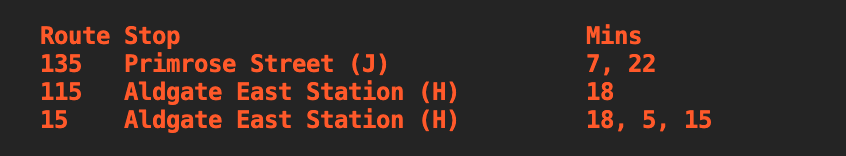
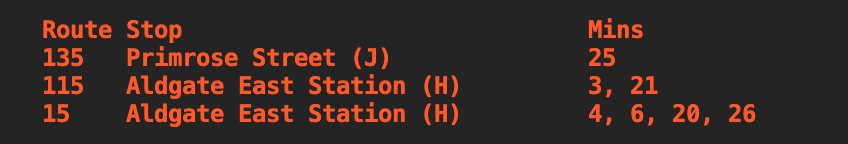
Update arrivals to be sorted when displayed

diff --git a/internal/ui/arrivals.go b/internal/ui/arrivals.go
@@ -2,6 +2,7 @@ package ui
 
 import (
 	"fmt"
+	"sort"
 	"strings"
 	"time"
 
@@ -17,7 +18,7 @@ type ArrivalRow struct {
 type group struct {
 	route string
 	stop  string
-	etas  []string
+	etas  []float64
 }
 
 func RenderArrivals(rows []ArrivalRow) string {
@@ -31,12 +32,8 @@ func RenderArrivals(rows []ArrivalRow) string {
 		if _, ok := groups[key]; !ok {
 			groups[key] = &group{route: r.Route, stop: r.Stop}
 		}
-		mins := int(r.ETA.Minutes())
-		if mins < 1 {
-			groups[key].etas = append(groups[key].etas, "due")
-		} else {
-			groups[key].etas = append(groups[key].etas, fmt.Sprintf("%d", mins))
-		}
+		mins := r.ETA.Minutes()
+		groups[key].etas = append(groups[key].etas, mins)
 	}
 
 	tableStyle := lipgloss.NewStyle().
@@ -59,7 +56,17 @@ func RenderArrivals(rows []ArrivalRow) string {
 	) + "\n"
 
 	for _, g := range groups {
-		etas := strings.Join(g.etas, ", ")
+		sort.Float64s(g.etas)
+		parts := make([]string, 0, len(g.etas))
+		for _, n := range g.etas {
+			if n < 1 {
+				parts = append(parts, "due")
+			} else {
+				parts = append(parts, fmt.Sprintf("%d", int(n)))
+			}
+		}
+
+		etas := strings.Join(parts, ", ")
 		row := lipgloss.JoinHorizontal(
 			lipgloss.Left,
 			colRoute.Render(g.route),

diff --git a/cmd/arrivals.go b/cmd/arrivals.go
@@ -14,7 +14,6 @@ var arrivalsCmd = &cobra.Command{
 	Short: "show the arrival times of the tracked buses",
 	Run: func(cmd *cobra.Command, args []string) {
 		c := tfl.NewClient()
-
 		rows := []ui.ArrivalRow{}
 
 		for _, configured := range cfg.Arrivals {
@@ -39,4 +38,6 @@ var arrivalsCmd = &cobra.Command{
 
 func init() {
 	rootCmd.AddCommand(arrivalsCmd)
+
+	arrivalsCmd.Flags().BoolP("keep-open", "k", false, "keep the arrivals display open and updating (every 5 seconds)")
 }
